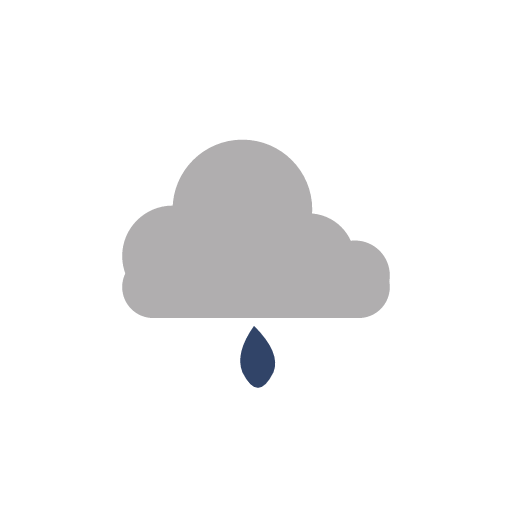
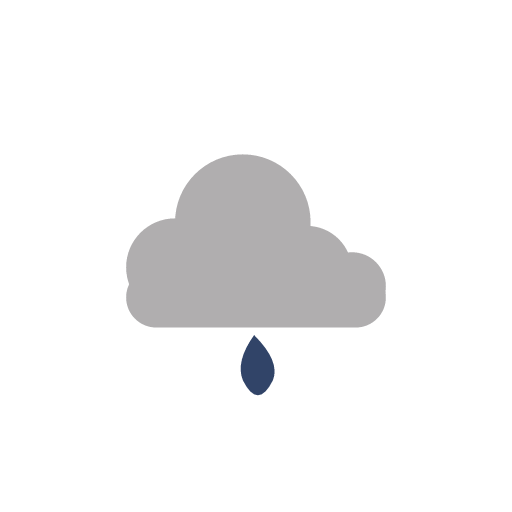
chore: iconos y assets de splash (light/dark/tinted) + app.json

Changed region(s): [[0.25, 0.5938, 0.75, 0.7812], [0.2188, 0.25, 0.7812, 0.5938]]

diff --git a/components/animated-splash.jsx b/components/animated-splash.jsx
@@ -1,29 +1,44 @@
 import { useAuthStore } from "@/stores/auth.store";
 import { useColorScheme } from "nativewind";
 import { useCallback, useEffect, useState } from "react";
-import { Image, StyleSheet, Text } from "react-native";
+import { StyleSheet } from "react-native";
 import Animated, {
+  Easing,
   runOnJS,
   useAnimatedStyle,
   useSharedValue,
   withTiming,
 } from "react-native-reanimated";
 import * as SplashScreen from "expo-splash-screen";
-import "../global.css";
 
 // Mantener la splash NATIVA visible hasta que el overlay tome el relevo (evita parpadeo).
 SplashScreen.preventAutoHideAsync().catch(() => {});
 
-const MARK_LIGHT = require("../assets/images/splash-icon.png");
-const MARK_DARK = require("../assets/images/splash-icon-dark.png");
+// Lockup completo (marca + "ClimaNuvem"). Es la MISMA imagen que la splash nativa
+// (app.json), por lo que el relevo nativa → overlay es pixel-idéntico.
+const LOCKUP_LIGHT = require("../assets/images/splash.png");
+const LOCKUP_DARK = require("../assets/images/splash-dark.png");
+const LOCKUP_RATIO = 1024 / 1079; // ancho / alto del PNG
 
-// Tope máximo de espera para que una red lenta no deje al usuario mirando el logo.
-const MAX_WAIT_MS = 2500;
+// El zoom de entrada SIEMPRE se reproduce entero antes de salir, aunque la sesión cargue
+// al instante. La salida solo se adelanta una vez superado el mínimo visible.
+const ENTER_MS = 1000; // zoom-in lento y suave
+const MIN_VISIBLE_MS = 1300; // entrada + pequeño hold
+const MAX_WAIT_MS = 2500; // tope: una red lenta no deja al usuario mirando el logo
+const EXIT_MS = 550;
+
+// Curva suave (ease-out tipo "expo") para una entrada fluida.
+const SMOOTH = Easing.bezier(0.22, 1, 0.36, 1);
+
+const LOGO_WIDTH = 200;
+
+const BG_LIGHT = "#ffffff";
+const BG_DARK = "#1e2a44";
 
 /**
- * Overlay React que replica la splash nativa y hace la animación de zoom-in + fade.
- * Se monta sobre toda la app (incluido el login). Cuando la sesión está resuelta
- * (`session !== undefined`) o se agota el tope, se desvanece y se desmonta.
+ * Overlay React que replica la splash nativa (mismo lockup) y hace un zoom-in + fade-out
+ * continuo (sin reversión, para que se sienta suave). Se monta sobre toda la app (incluido
+ * el login) y se desmonta cuando la sesión está resuelta tras el mínimo visible, o al tope.
  */
 export default function AnimatedSplash() {
   const { colorScheme } = useColorScheme();
@@ -33,32 +48,46 @@ export default function AnimatedSplash() {
   const ready = session !== undefined;
 
   const [visible, setVisible] = useState(true);
+  const [minElapsed, setMinElapsed] = useState(false);
   const [capReached, setCapReached] = useState(false);
 
-  const opacity = useSharedValue(0);
-  const scale = useSharedValue(0.85);
+  // Contenedor arranca OPACO (relevo sin parpadeo). El logo escala de forma continua.
+  const opacity = useSharedValue(1);
+  const scale = useSharedValue(0.9);
 
-  // Animación de entrada al montar.
+  // Entrada: zoom-in lento. Se reproduce entero (MIN_VISIBLE_MS > ENTER_MS).
   useEffect(() => {
-    opacity.value = withTiming(1, { duration: 300 });
-    scale.value = withTiming(1, { duration: 500 });
-  }, [opacity, scale]);
+    scale.value = withTiming(1, { duration: ENTER_MS, easing: SMOOTH });
+  }, [scale]);
 
-  // Tope de seguridad.
+  // Tiempo mínimo en pantalla y tope de seguridad.
   useEffect(() => {
-    const id = setTimeout(() => setCapReached(true), MAX_WAIT_MS);
-    return () => clearTimeout(id);
+    const min = setTimeout(() => setMinElapsed(true), MIN_VISIBLE_MS);
+    const cap = setTimeout(() => setCapReached(true), MAX_WAIT_MS);
+    return () => {
+      clearTimeout(min);
+      clearTimeout(cap);
+    };
   }, []);
 
-  // Cuando la app está lista (o se agota el tope), reproducir la salida y desmontar.
+  // Salida: cuando (sesión lista Y mínimo cumplido) o se agota el tope. El zoom CONTINÚA
+  // creciendo (misma dirección) mientras se desvanece → transición suave, sin tirón.
   const hide = useCallback(() => setVisible(false), []);
   useEffect(() => {
-    if (!ready && !capReached) return;
-    opacity.value = withTiming(0, { duration: 350 }, (finished) => {
-      if (finished) runOnJS(hide)();
+    const shouldExit = (ready && minElapsed) || capReached;
+    if (!shouldExit) return;
+    scale.value = withTiming(1.08, {
+      duration: EXIT_MS,
+      easing: Easing.inOut(Easing.ease),
     });
-    scale.value = withTiming(1.06, { duration: 350 });
-  }, [ready, capReached, opacity, scale, hide]);
+    opacity.value = withTiming(
+      0,
+      { duration: EXIT_MS, easing: Easing.inOut(Easing.ease) },
+      (finished) => {
+        if (finished) runOnJS(hide)();
+      },
+    );
+  }, [ready, minElapsed, capReached, opacity, scale, hide]);
 
   // Ocultar la splash nativa en cuanto el overlay (idéntico) está pintado.
   const onLayout = useCallback(() => {
@@ -76,19 +105,25 @@ export default function AnimatedSplash() {
     <Animated.View
       onLayout={onLayout}
       pointerEvents="none"
-      style={[StyleSheet.absoluteFill, containerStyle]}
-      className="items-center justify-center bg-white dark:bg-[#1e2a44]"
+      style={[
+        StyleSheet.absoluteFill,
+        styles.center,
+        { backgroundColor: isDark ? BG_DARK : BG_LIGHT },
+        containerStyle,
+      ]}
     >
-      <Animated.View style={logoStyle} className="items-center gap-5">
-        <Image
-          source={isDark ? MARK_DARK : MARK_LIGHT}
-          style={{ width: 130, height: 130 }}
-          resizeMode="contain"
-        />
-        <Text className="text-3xl font-bold text-[#314468] dark:text-white">
-          ClimaNuvem
-        </Text>
-      </Animated.View>
+      <Animated.Image
+        source={isDark ? LOCKUP_DARK : LOCKUP_LIGHT}
+        resizeMode="contain"
+        style={[
+          { width: LOGO_WIDTH, height: LOGO_WIDTH / LOCKUP_RATIO },
+          logoStyle,
+        ]}
+      />
     </Animated.View>
   );
 }
+
+const styles = StyleSheet.create({
+  center: { alignItems: "center", justifyContent: "center" },
+});
